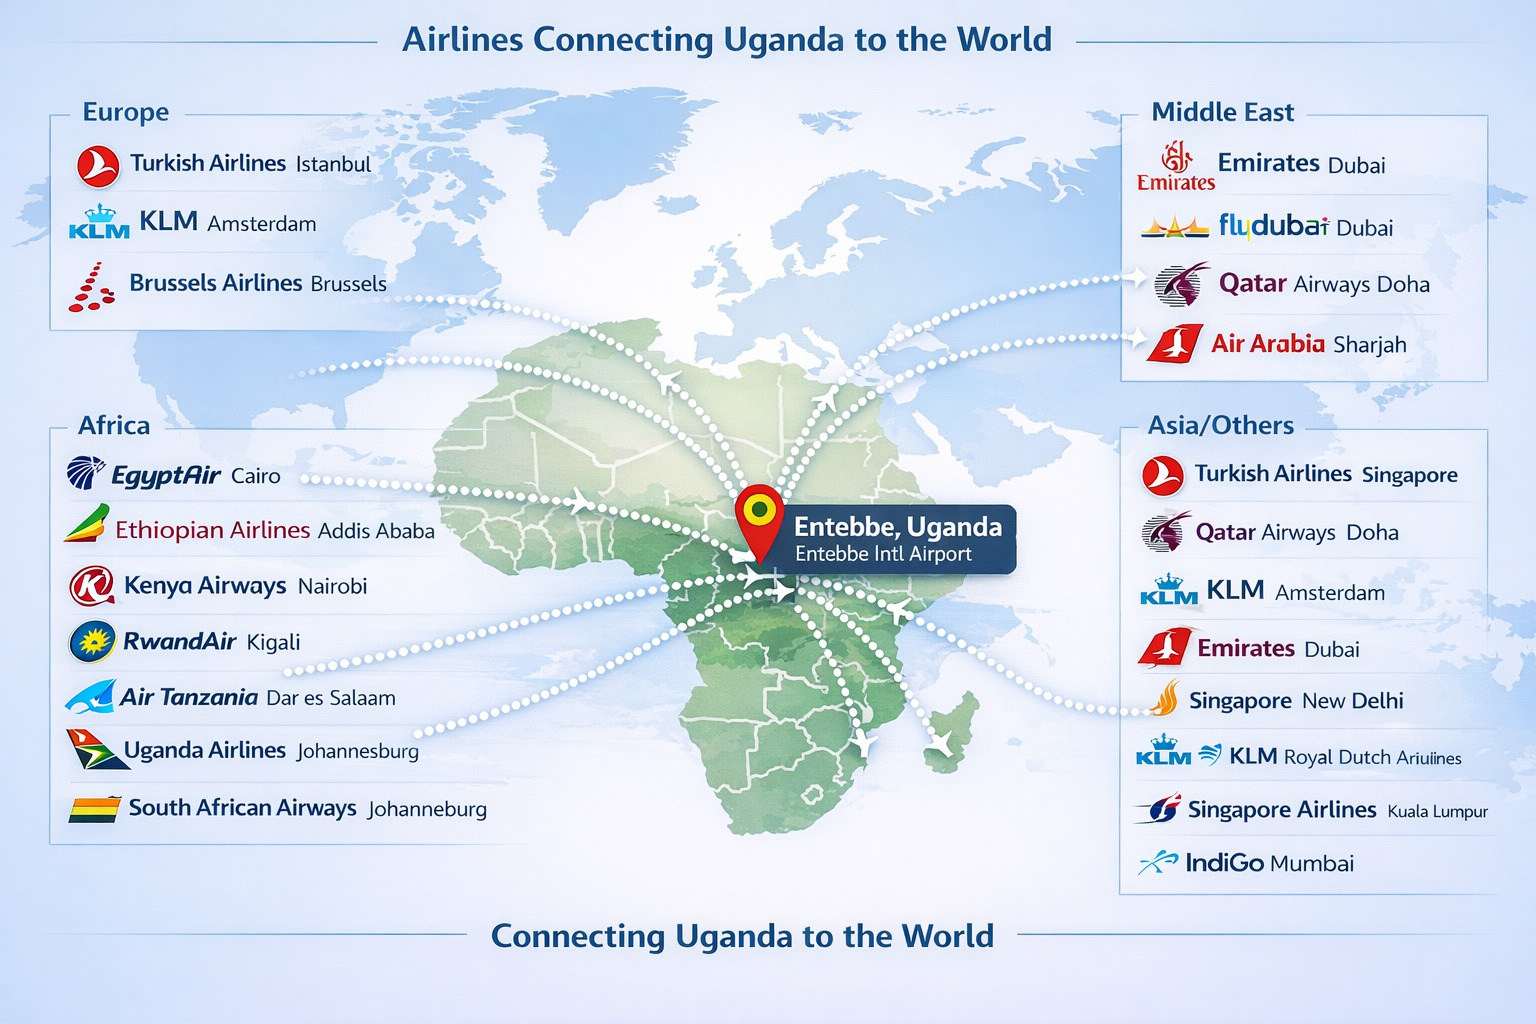
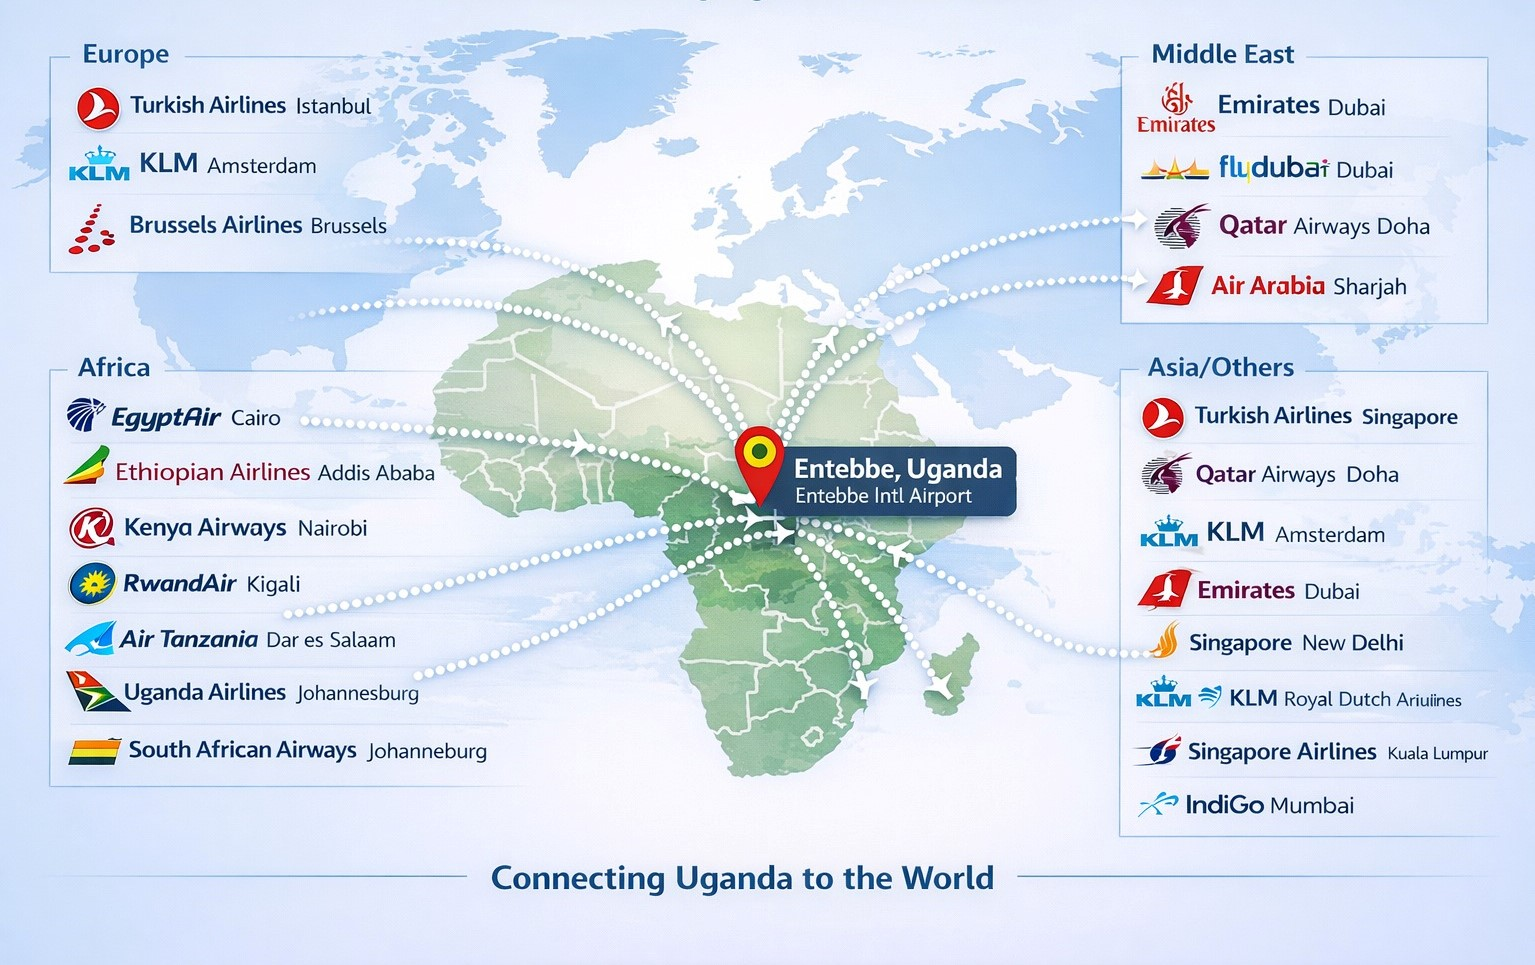
Update Partners subtitle text and styles

diff --git a/pages/Home.tsx b/pages/Home.tsx
@@ -330,17 +330,27 @@ const Home: React.FC = () => {
       {/* Flight Search Bar */}
       <FlightSearchBar />
 
-      {/* Partners Section - Static Image */}
-      <section className="section-spacing bg-white overflow-hidden flex items-center justify-center py-0">
-        <img
-          src="/WhatsApp Image 2026-03-12 at 1.08.49 PM (1).jpeg"
-          alt="Airlines Connecting Uganda to the World"
-          width={1280}
-          height={720}
-          className="w-full max-w-7xl h-auto shadow-2xl"
-          loading="lazy"
-          decoding="async"
-        />
+      {/* Partners Section - Static Image with Title and Subtitle */}
+      <section id="partners-section" className="bg-white overflow-hidden pt-12">
+        <div className="max-w-7xl mx-auto px-6 text-center mb-10">
+          <h2 className="text-3xl md:text-5xl font-black text-navy-900 mb-4 tracking-tight">
+            Airlines Connecting Uganda to the World
+          </h2>
+          <p className="text-slate-600 text-lg md:text-xl font-medium leading-relaxed max-w-5xl mx-auto opacity-80 lowercase tracking-widest">
+            trusted partnerships with leading airlines and travel providers worldwide, ensuring seamless journeys and competitive fares
+          </p>
+        </div>
+        <div className="flex items-center justify-center">
+          <img
+            src="/WhatsApp Image 2026-03-12 at 1.08.49 PM (1).jpeg"
+            alt="Airlines Connecting Uganda to the World"
+            width={1280}
+            height={720}
+            className="w-full max-w-7xl h-auto shadow-2xl"
+            loading="lazy"
+            decoding="async"
+          />
+        </div>
       </section>
 
 
